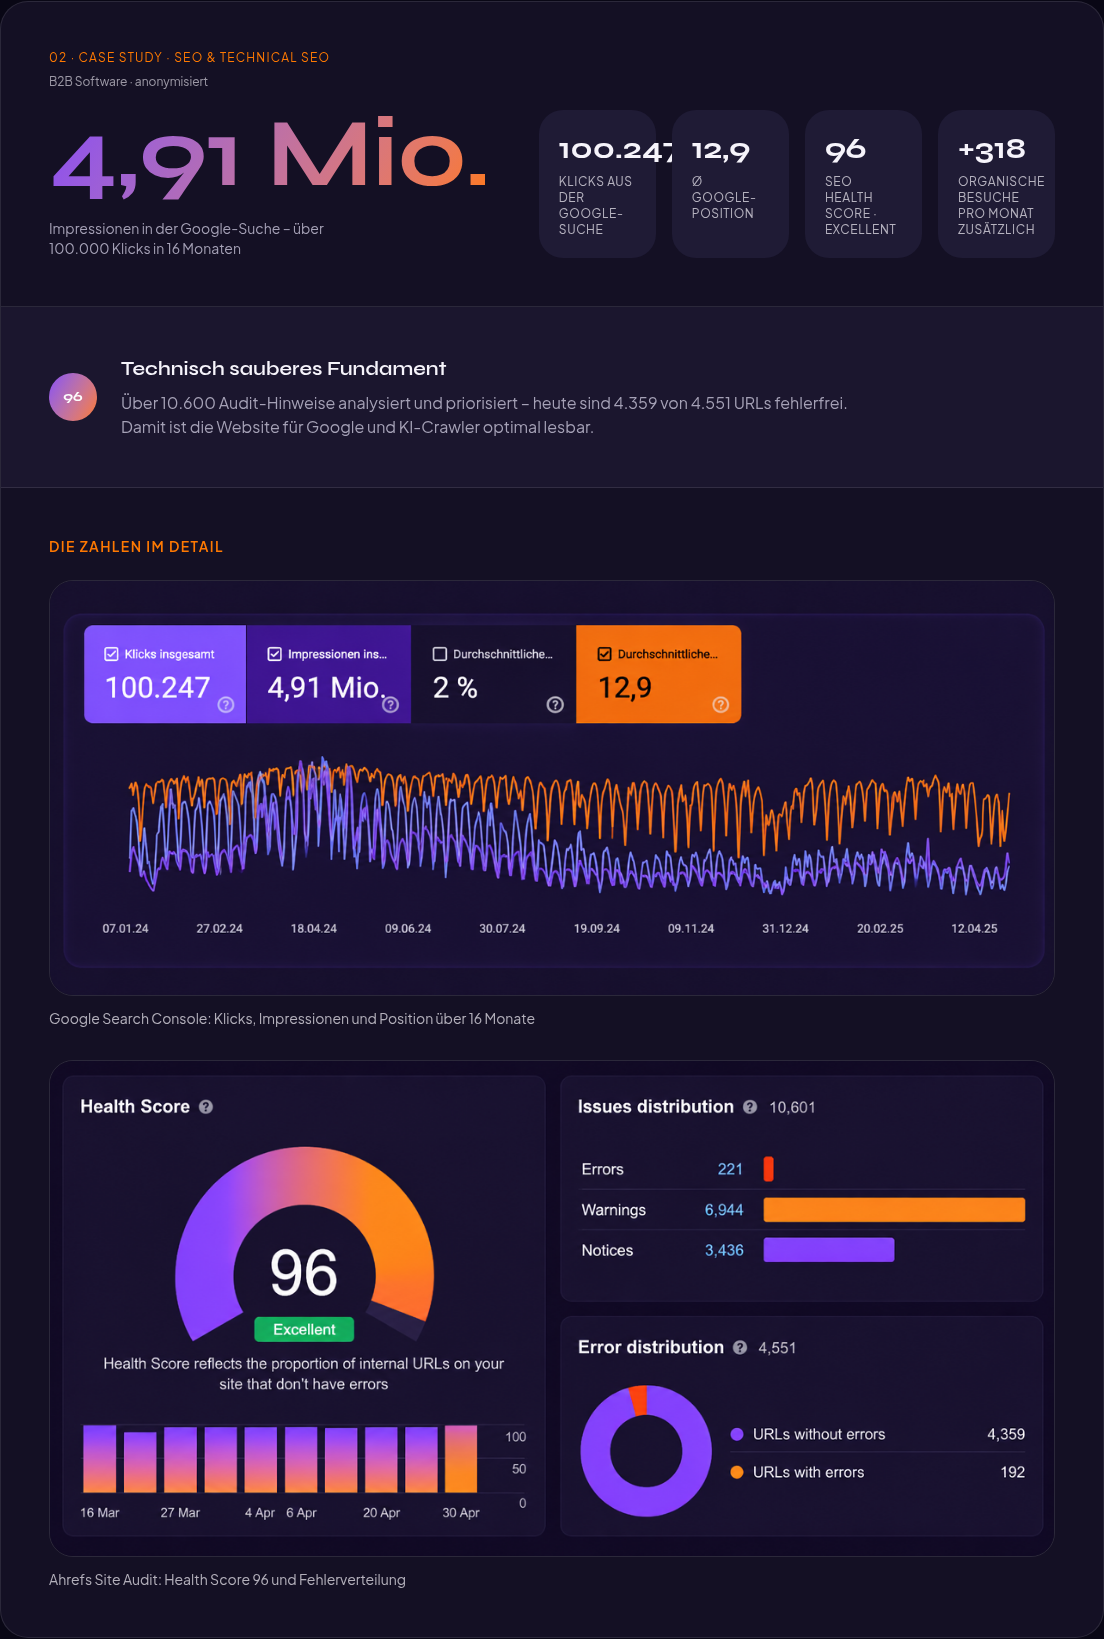
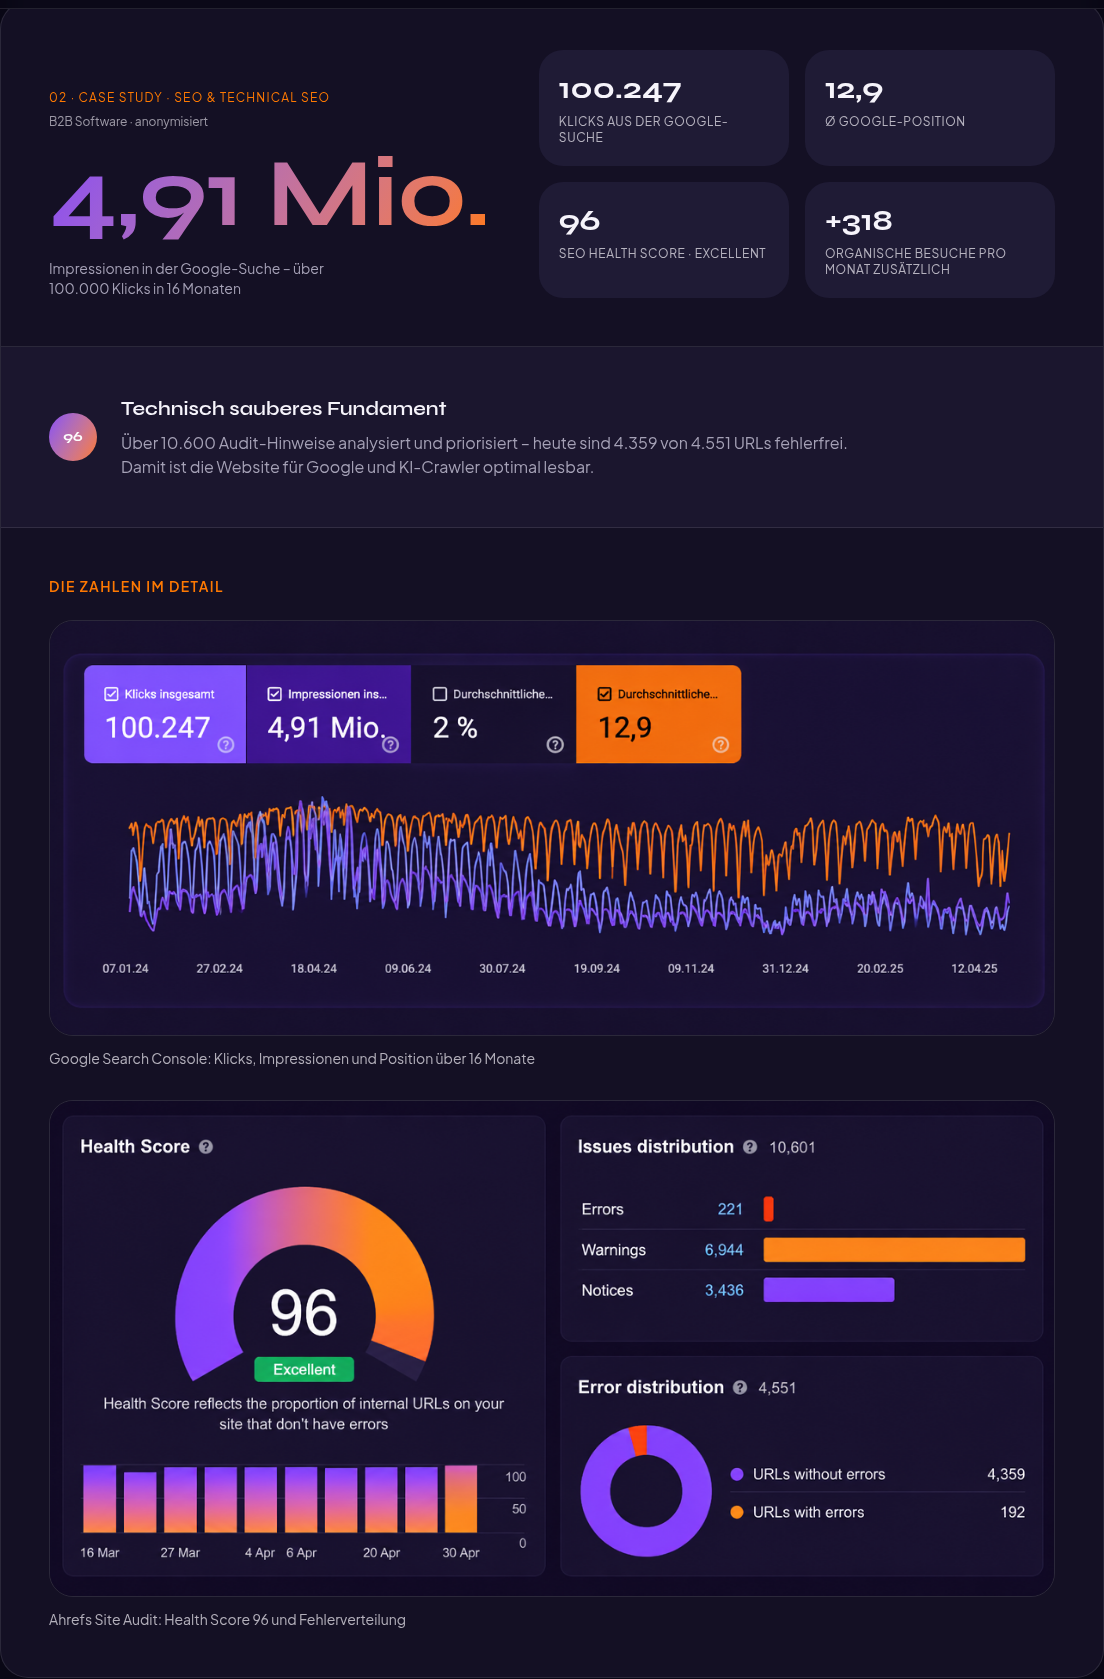
Changes

diff --git a/src/routes/index.tsx b/src/routes/index.tsx
@@ -86,10 +86,10 @@ function Index() {
               <p className="mt-4 whitespace-nowrap font-display text-6xl font-bold leading-none text-gradient md:text-8xl">{c.d.hero}</p>
               <p className="mt-4 max-w-xs text-sm text-muted-foreground">{c.d.heroLabel}</p>
             </div>
-            <div className="grid gap-4 sm:grid-cols-2 xl:grid-cols-4">
+            <div className="grid gap-4 sm:grid-cols-2">
               {c.d.stats.map((s, i) => (
                 <div key={i} className="rounded-2xl bg-secondary p-5">
-                  <p className="whitespace-nowrap font-display text-2xl font-bold xl:text-3xl">{s.k}</p>
+                  <p className="whitespace-nowrap font-display text-3xl font-bold">{s.k}</p>
                   <p className="mt-2 text-xs uppercase tracking-wider text-foreground/70">{s.l}</p>
                 </div>
               ))}
